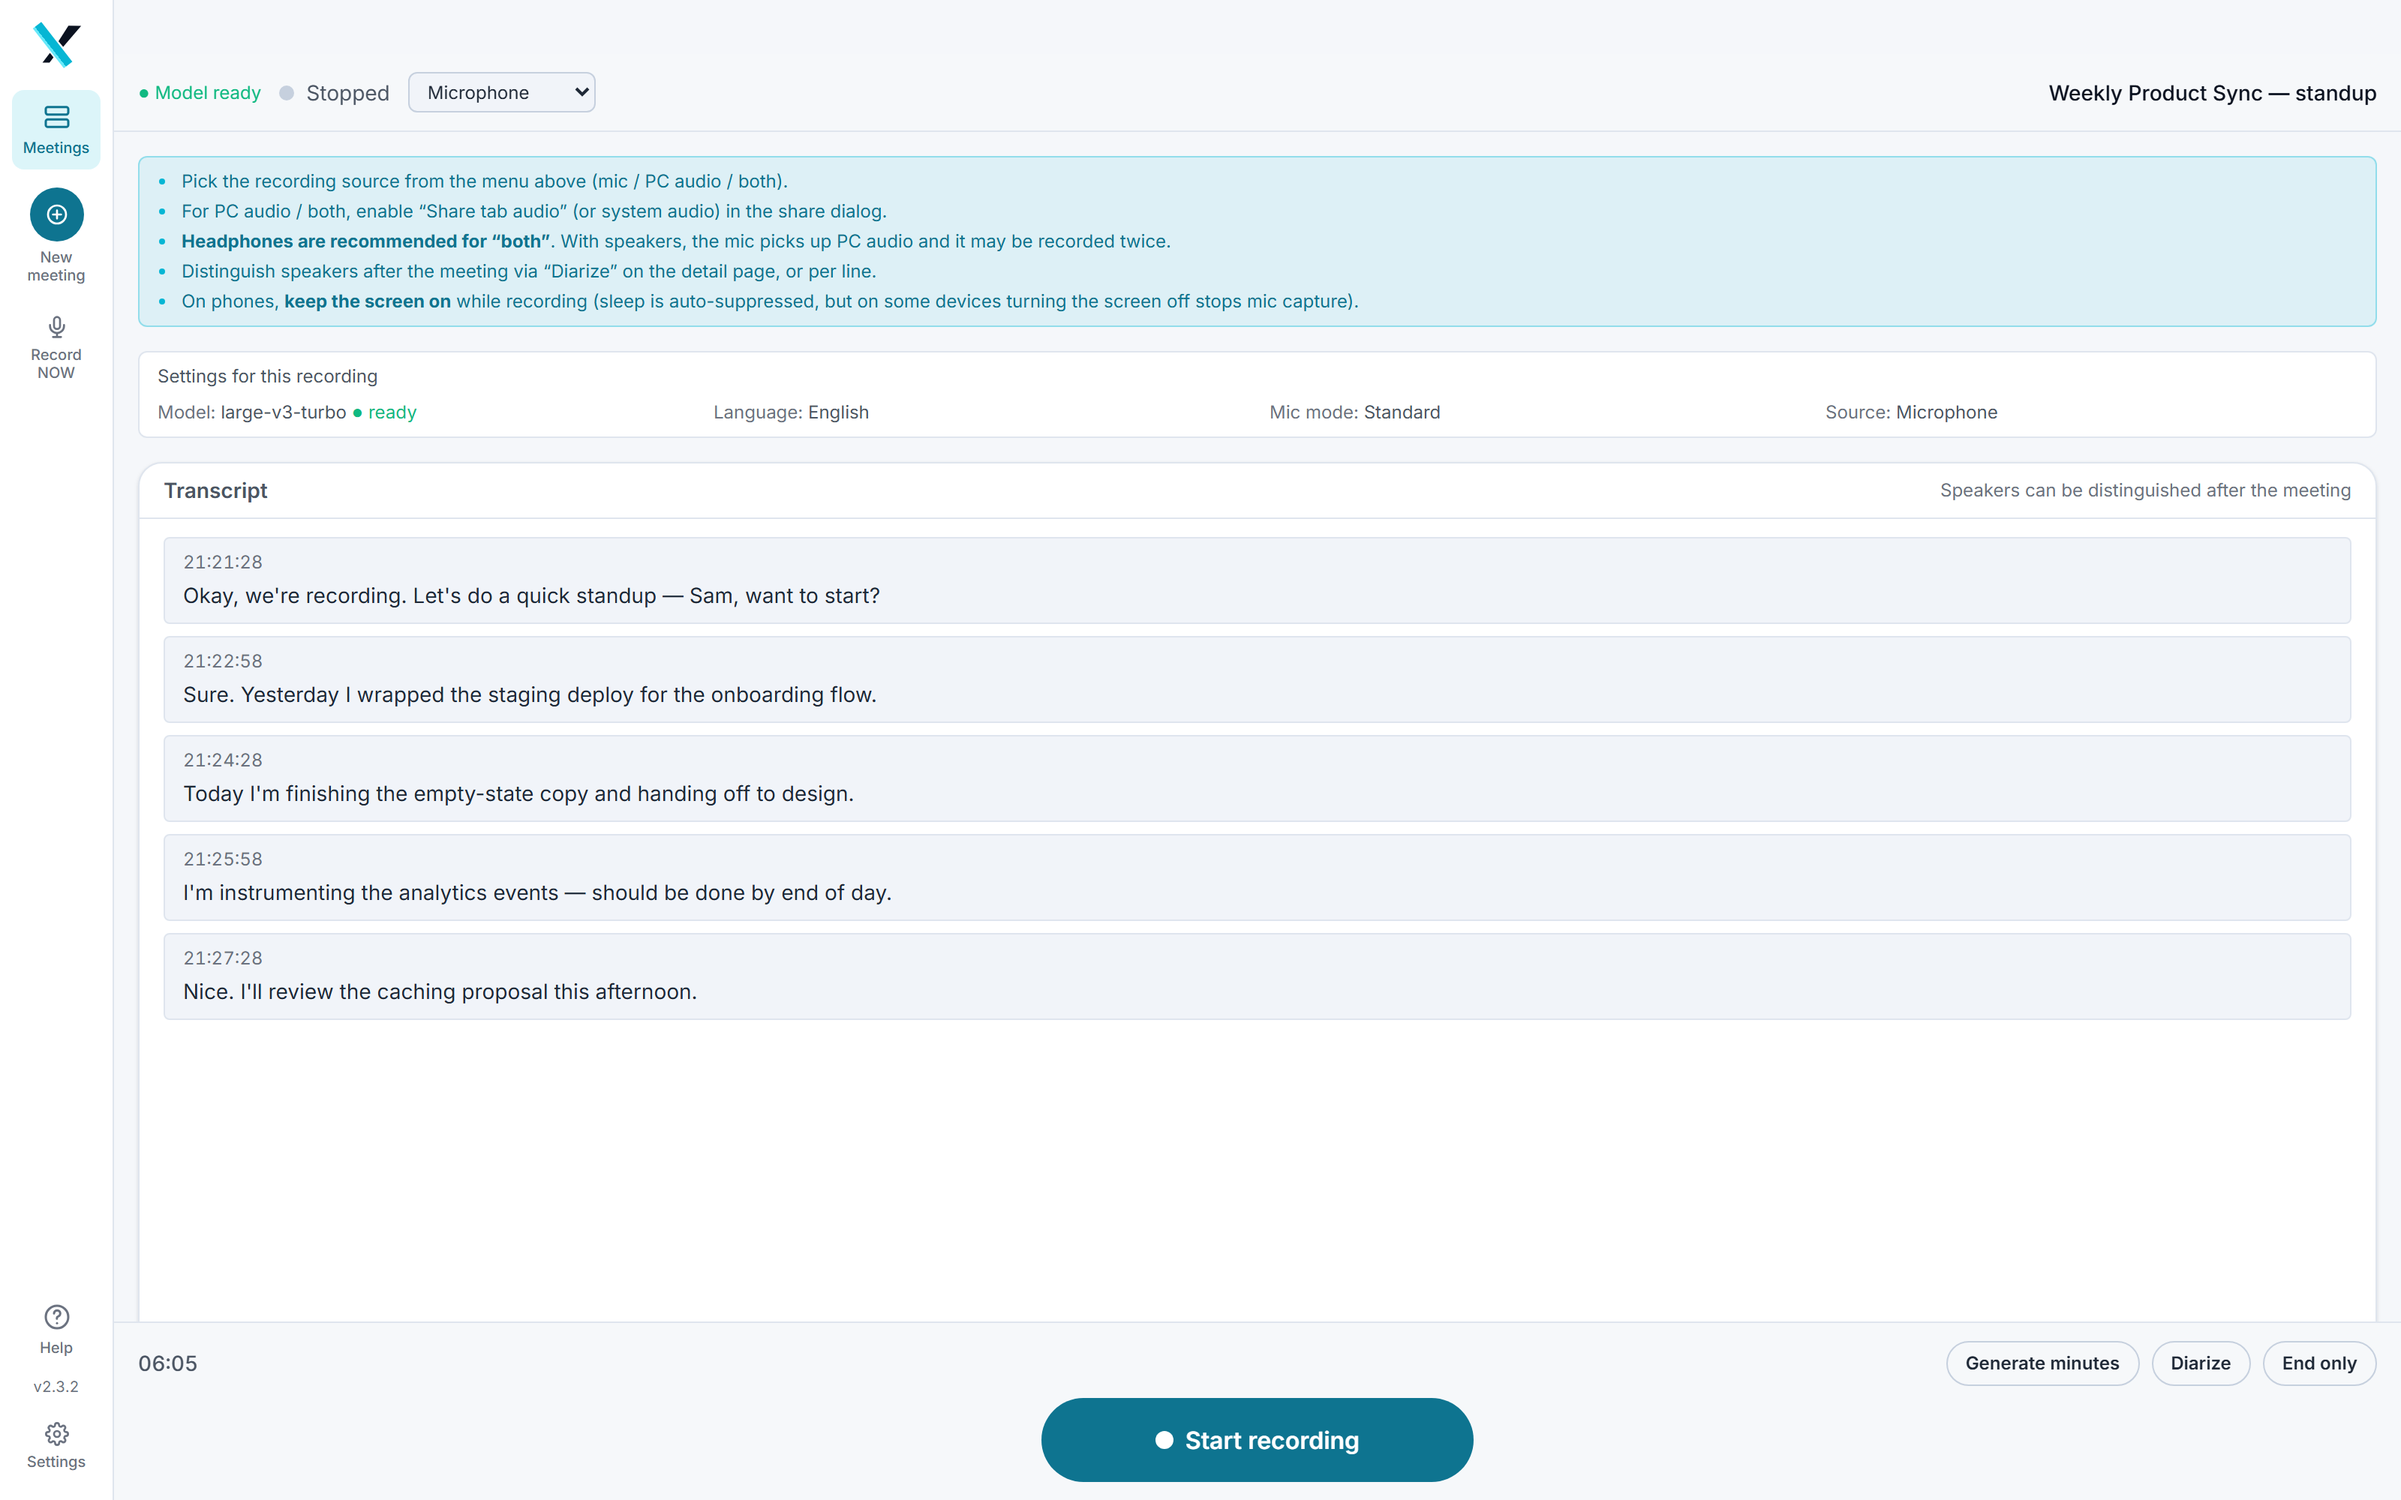
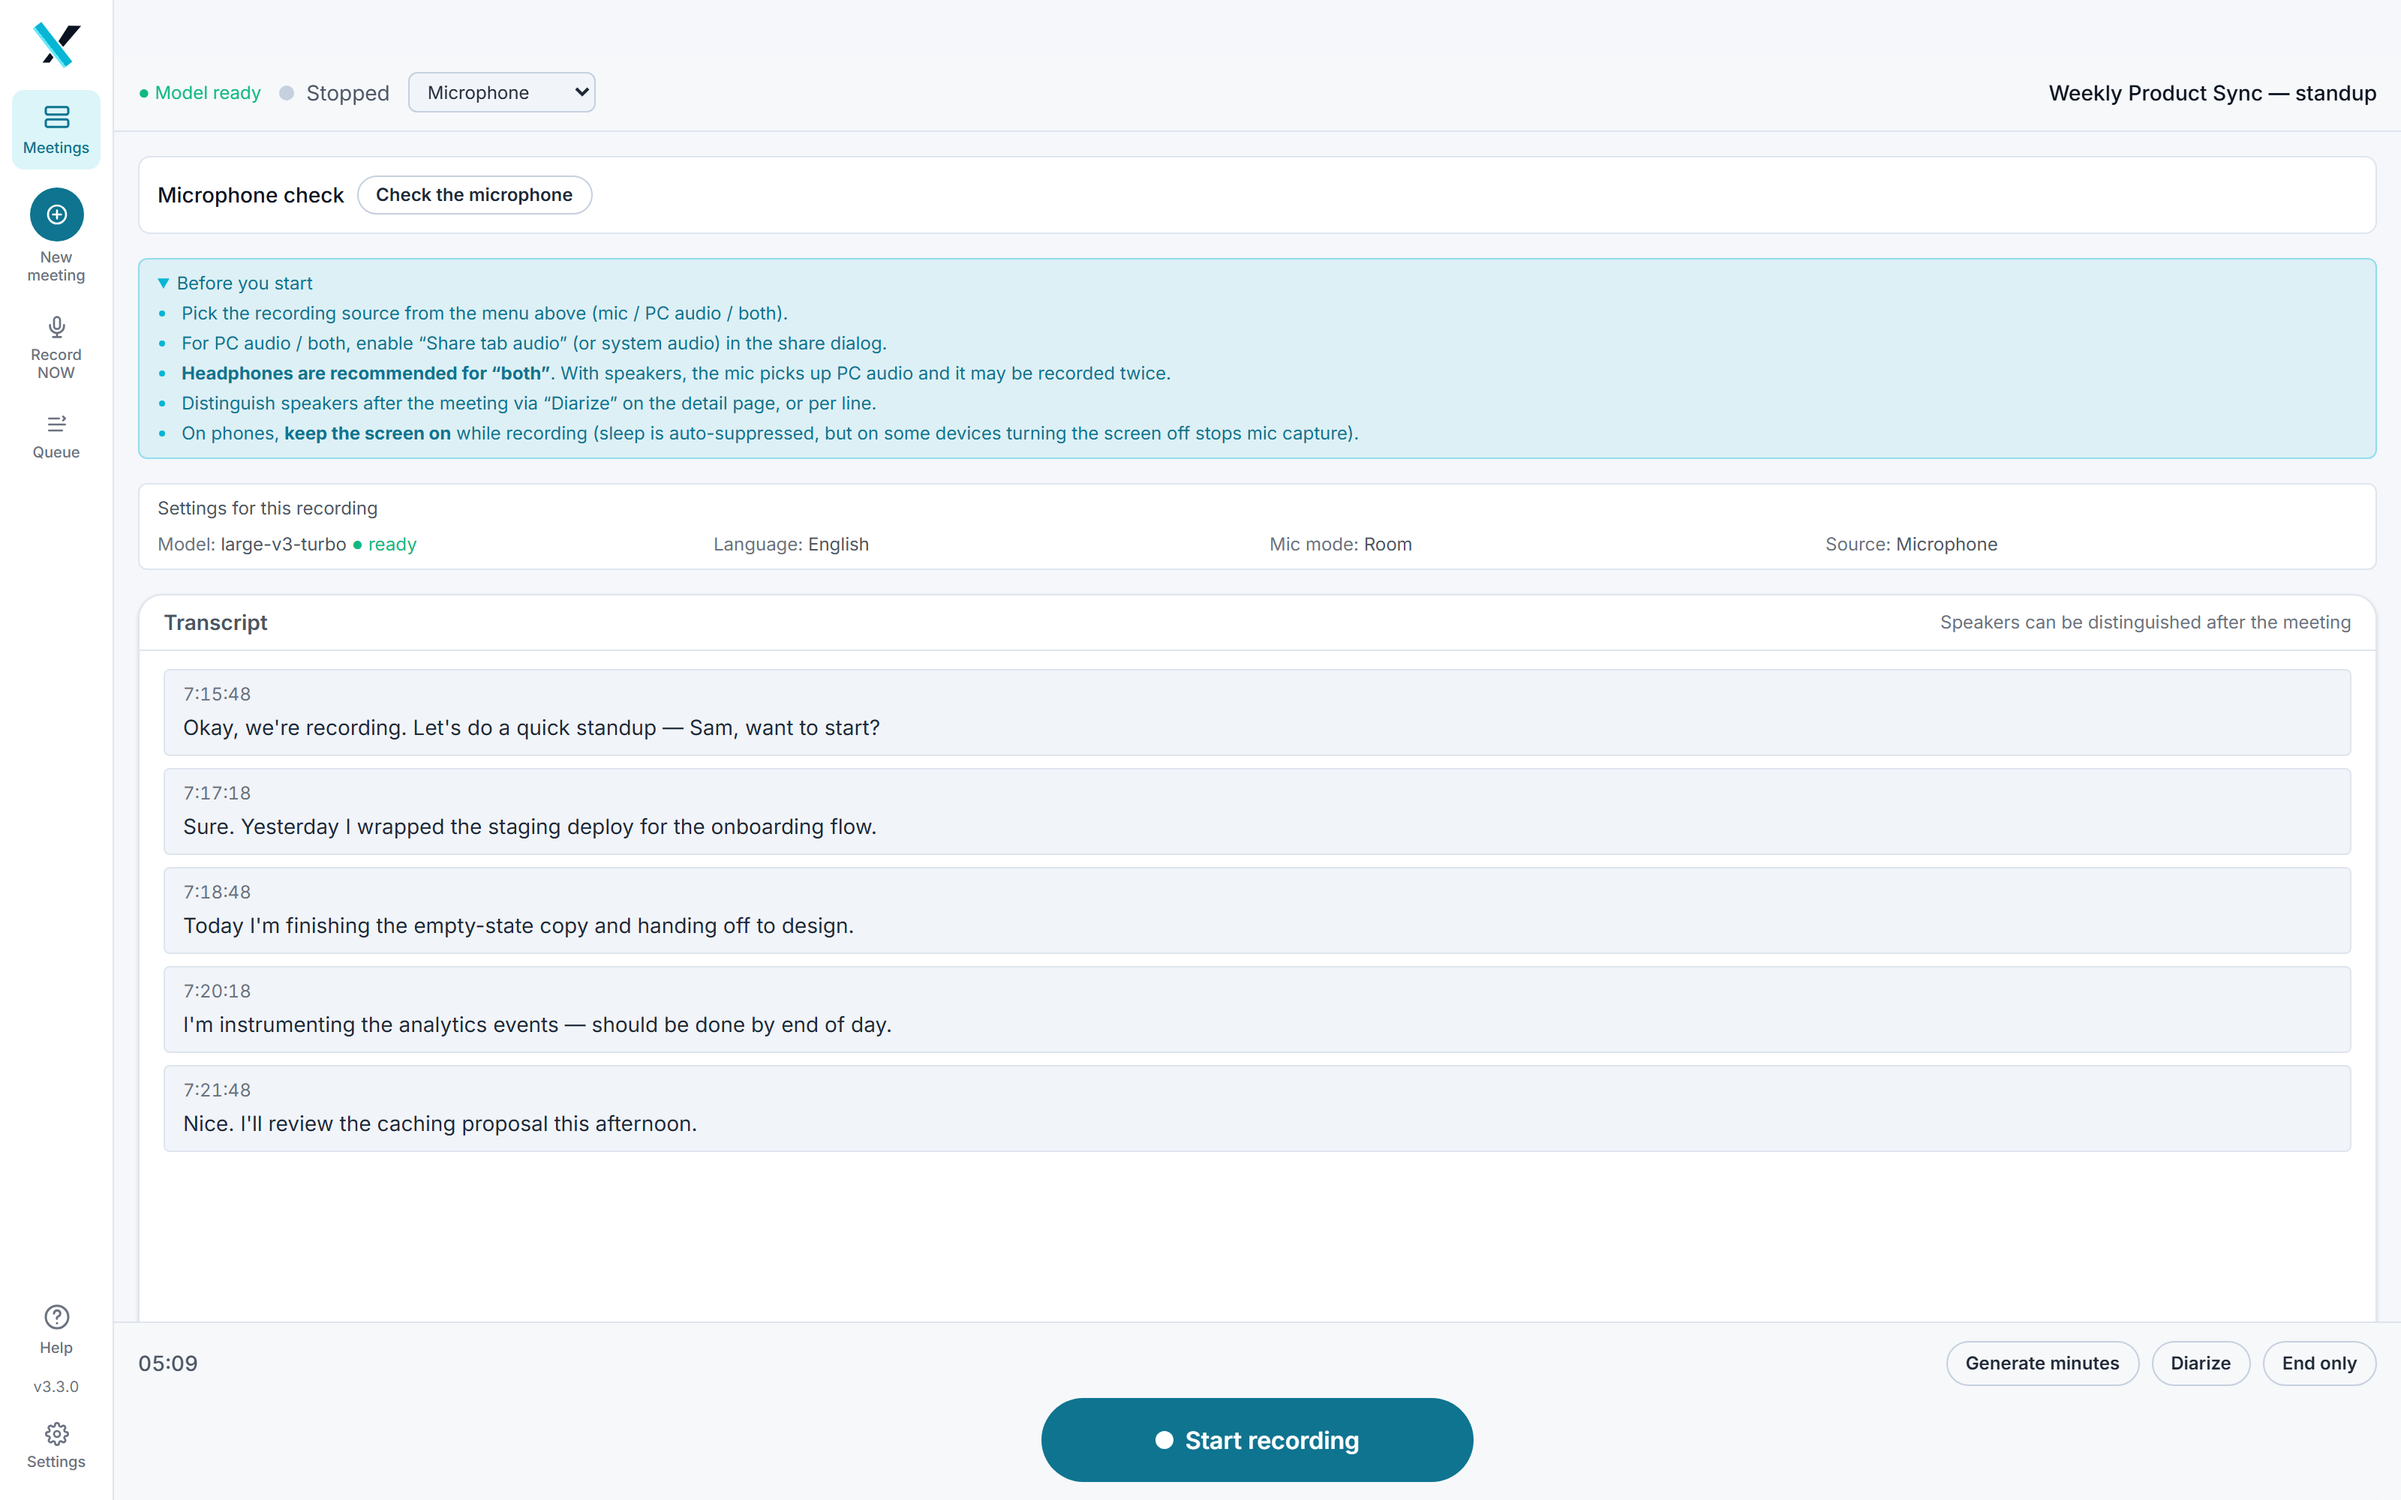
Retake the screenshots for 3.3
The README was showing a version of this app that no longer exists: the shots
predate the queue, the month calendar, the rebuilt meeting list, the microphone
check, the endpoint list in Settings, and the progress and participants cards
beside the minutes. The GIF was older still.

All five come from the script, against a throwaway instance — its own database
on 55432, its own settings file, a stubbed STT service, nothing near the ports
a real install uses.

Three fixes underneath them:

The demo seed now names who was there. The Participants card is beside the
minutes in the shot the README leans on, and an empty one photographs the box
rather than the feature — it now reads three ticked names and "3 of 3 expected
to speak — diarization is told to look for 3."

The GIF shot at 1280, which is below the 1536 the layout needs, so its last
frame — the one the slideshow travels towards — was a stack of detail cards
with no minutes in it at all. It shoots at 1600 now and scales to 1100.

The stub the recipe stands up reports a configuration that exists rather than
its own fallback, because the recording screen shows that answer; and the
recipe was missing TZ, without which every date in the shots is UTC.

diff --git a/docs/screenshots/README.md b/docs/screenshots/README.md
@@ -8,13 +8,18 @@ app is for, these say what it looks like.
 
 | Filename | What it shows | Retaken by |
 | --- | --- | --- |
-| `dashboard.png` | Home: the rail, the meeting list with Upcoming, tags and status chips. | `shoot-screenshots.mjs` |
+| `dashboard.png` | Home: the rail, the month calendar, and the meeting list grouped by when — tags and status chips on each. | `shoot-screenshots.mjs` |
 | `recording.png` | Recording screen: model state, live transcript, and the recording control at the bottom. | `shoot-screenshots.mjs` |
-| `minutes.png` | Meeting detail: minutes in the middle, and the column beside them — progress, agenda, participants, what it was recorded with. | `shoot-screenshots.mjs` |
+| `minutes.png` | Meeting detail: minutes in the middle, and the column beside them — progress, agenda, who was there, what it was recorded with. | `shoot-screenshots.mjs` |
 | `settings.png` | Settings → Transcription: the endpoint list (this machine, plus any saved), language, glossary, mic mode. | `shoot-screenshots.mjs` |
 | `workflow.png` | README hero: the six-step pipeline (record → transcribe → speakers → minutes → ask → series), a band of what each kind of hardware does, and a strip on encryption, accounts, search and self-hosting. **Says more than any drawing can**, which is why it is the hero and not one. | by hand |
 | `demo.gif` | Usage section: slideshow of home → new meeting → recording → minutes. | `shoot-demo-gif.mjs` |
 | `social-preview.png` | 1280×640 card for GitHub → repo Settings → Social preview (upload manually; not referenced by the README). Cropped from [`../illustrations/hero.png`](../illustrations/README.md) — a card is seen at thumbnail size in a feed, where a drawing carries and an infographic does not. | by hand |
+
+The shots are English. The interface is also Japanese, and which one it speaks follows the
+setting and then the browser — so a Japanese set would come from the same script against a
+context with a Japanese `Accept-Language`. There is no such set yet; README.ja.md carries only
+`workflow.png`.
 
 ## Retaking the UI shots
 
@@ -36,8 +41,11 @@ node scripts/seed-demo.mjs
 # 2. the app, on a port nothing else wants, with auth off and its own settings file
 export VOXINQ_SETTINGS_PATH=/tmp/shots-settings.json   # not the real settings.json
 export NEXT_PUBLIC_STT_WS_URL="ws://127.0.0.1:58000/ws"
-export STT_INTERNAL_URL="http://127.0.0.1:58000"       # a stub, not the real service
+export STT_URL="http://127.0.0.1:58000"                # a stub, not the real service
+export STT_INTERNAL_URL="http://127.0.0.1:58000"
 export APP_PASSWORD="" NETWORK_MODE=lan
+export TZ="Asia/Tokyo"                                 # a container has none; without it the
+                                                       # dates in the shots are UTC
 npm run build && npx next start -p 3100
 
 # 3. the photographs
@@ -49,9 +57,18 @@ docker rm -f voxinq-shots-db     # when you are done
 ```
 
 The script fixes the things that are easy to get wrong by hand: light theme (it is stored per
-device in `localStorage`, not in settings), a 1600px frame so the three-column layout is the one photographed (below 1536 the right-hand column stacks), a 2× device pixel ratio so the images stay sharp,
-a frame fitted to each page instead of a band of empty background, and one shared height for
-`recording.png` and `minutes.png` because the README puts them side by side.
+device in `localStorage`, not in settings), a 1600px frame so the three-column layout is the one
+photographed (below 1536 the right-hand column stacks), a 2× device pixel ratio so the images stay
+sharp, a frame fitted to each page instead of a band of empty background, and one shared height
+for `recording.png` and `minutes.png` because the README puts them side by side.
+
+`shoot-demo-gif.mjs` shoots at the same 1600 and scales to 1100. It used to shoot at 1280, which
+is under that 1536 threshold, so the last frame — the one the slideshow travels towards — showed
+a stack of detail cards and no minutes.
+
+The STT service the recipe stubs is asked for its health, and the recording screen shows the
+answer. Report a configuration that exists (which model, which backend, whether live
+transcription is available) rather than letting a bare stub photograph its own fallback.
 
 ## Doing it by hand
 
